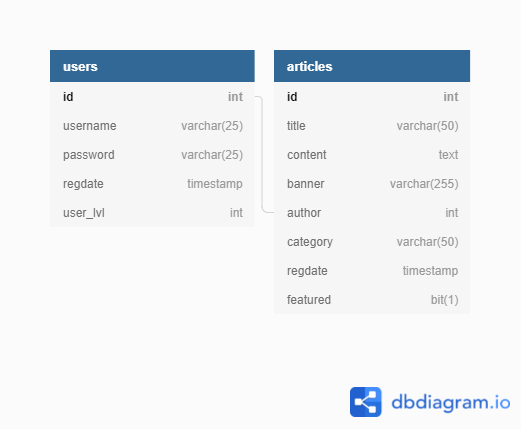
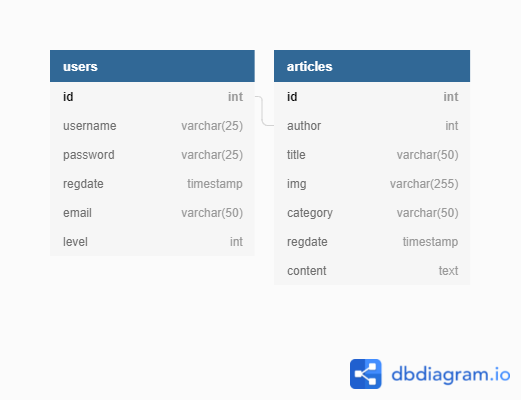
Edited 8. Database plan
Changed tables description

diff --git a/System plan.md b/System plan.md
@@ -239,22 +239,21 @@ Users are registered accounts on the website. Their data of favorite songs is st
 - **id:** A unique identification number that is assigned at registration to every user. 
 - **username:** A unique name the user chooses for their account name, it is required for user to log in to their account
 - **password:** A one way hashed password that is needed to log in to an account.
-- **first_name:** First name of the user as filled in the registration form
-- **last_name:** Last name of the user as filled in the registration form
 - **email:** Email address of the user. It's used for sending order and account information.
-- **birthdate:** Date of birth of the user. 
 - **Regdate:** Date of registration. Filled out automatically.
-- **Level:** Permission level of the user. More levels can be added later.
+- **user_lvl:** Permission level of the user. More levels can be added later.
 	- 0 = User
 	- 1 = Moderator
 	
-### Songs
-Songs are songs that are being stored in the website.
+### Articles
+Articles are news that are being stored in the website.
 - **id:** An unique identification number, that is automatically incremented.
-- **name:** The name of the product.
-- **author:** The performer of the product.
-- **img:** A path that shows the location of and image of the song/album cover
-- **genre:** The main genre of the product. 
+- **author:** The performer of the article.
+- **title:** The title of the article.
+- **img:** A path that shows the location of and image of the article cover.
+- **category:** The main category of the article. 
+- **regdate:** The article posting date. 
+- **content:** The article text.
 
 <p align="center">
 <img src="./Figures/Database_plan.png">
